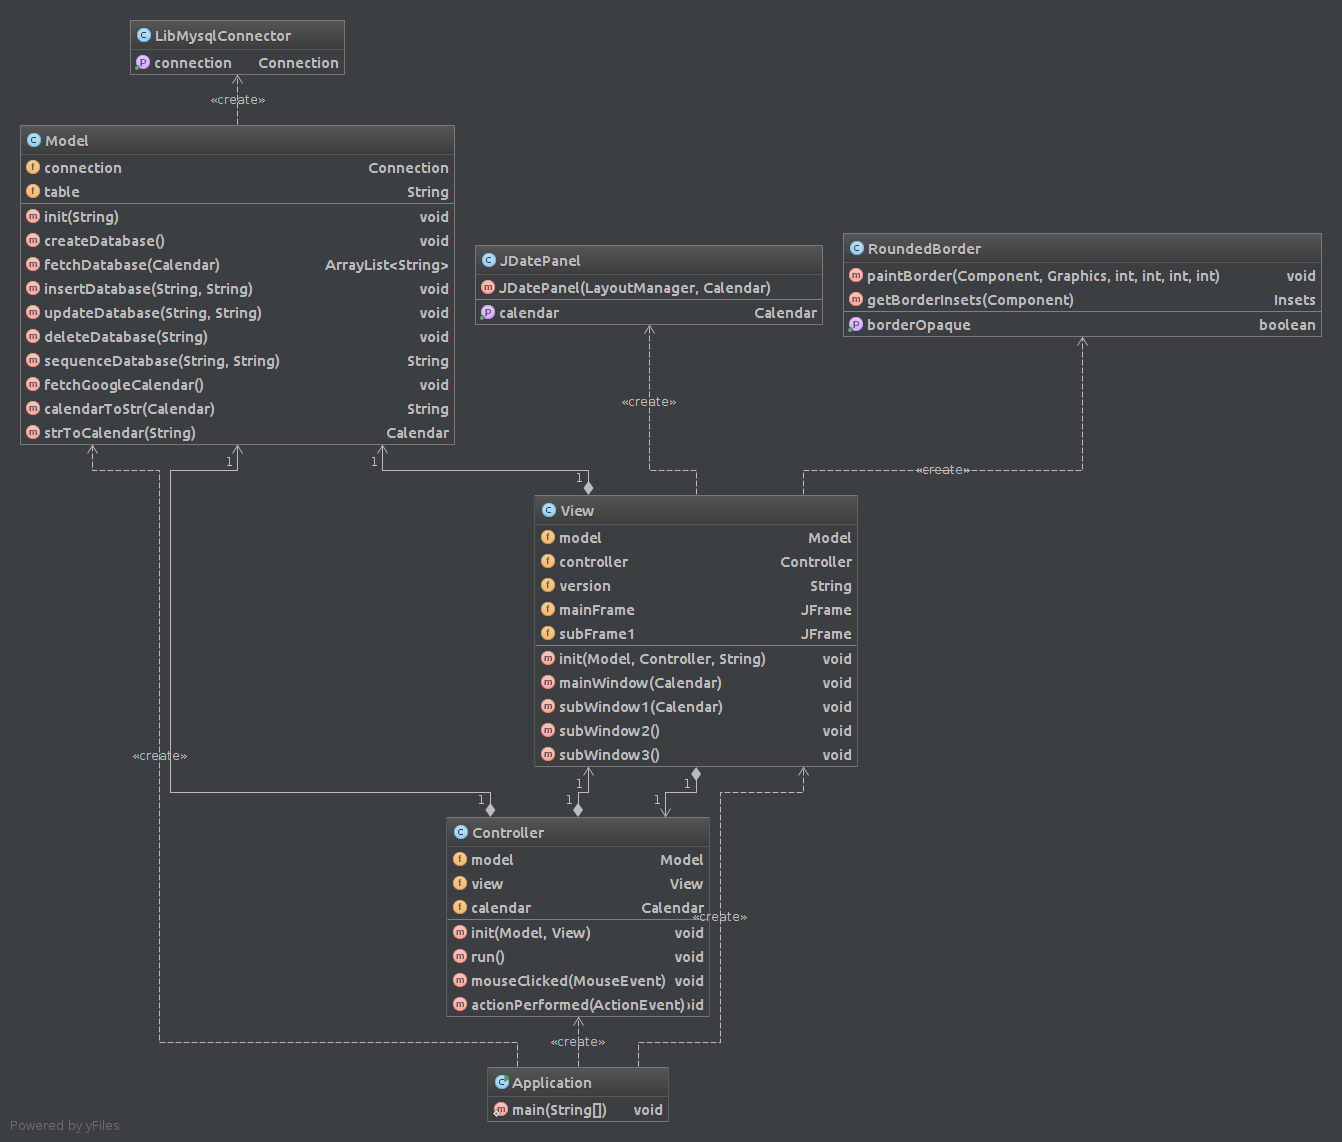
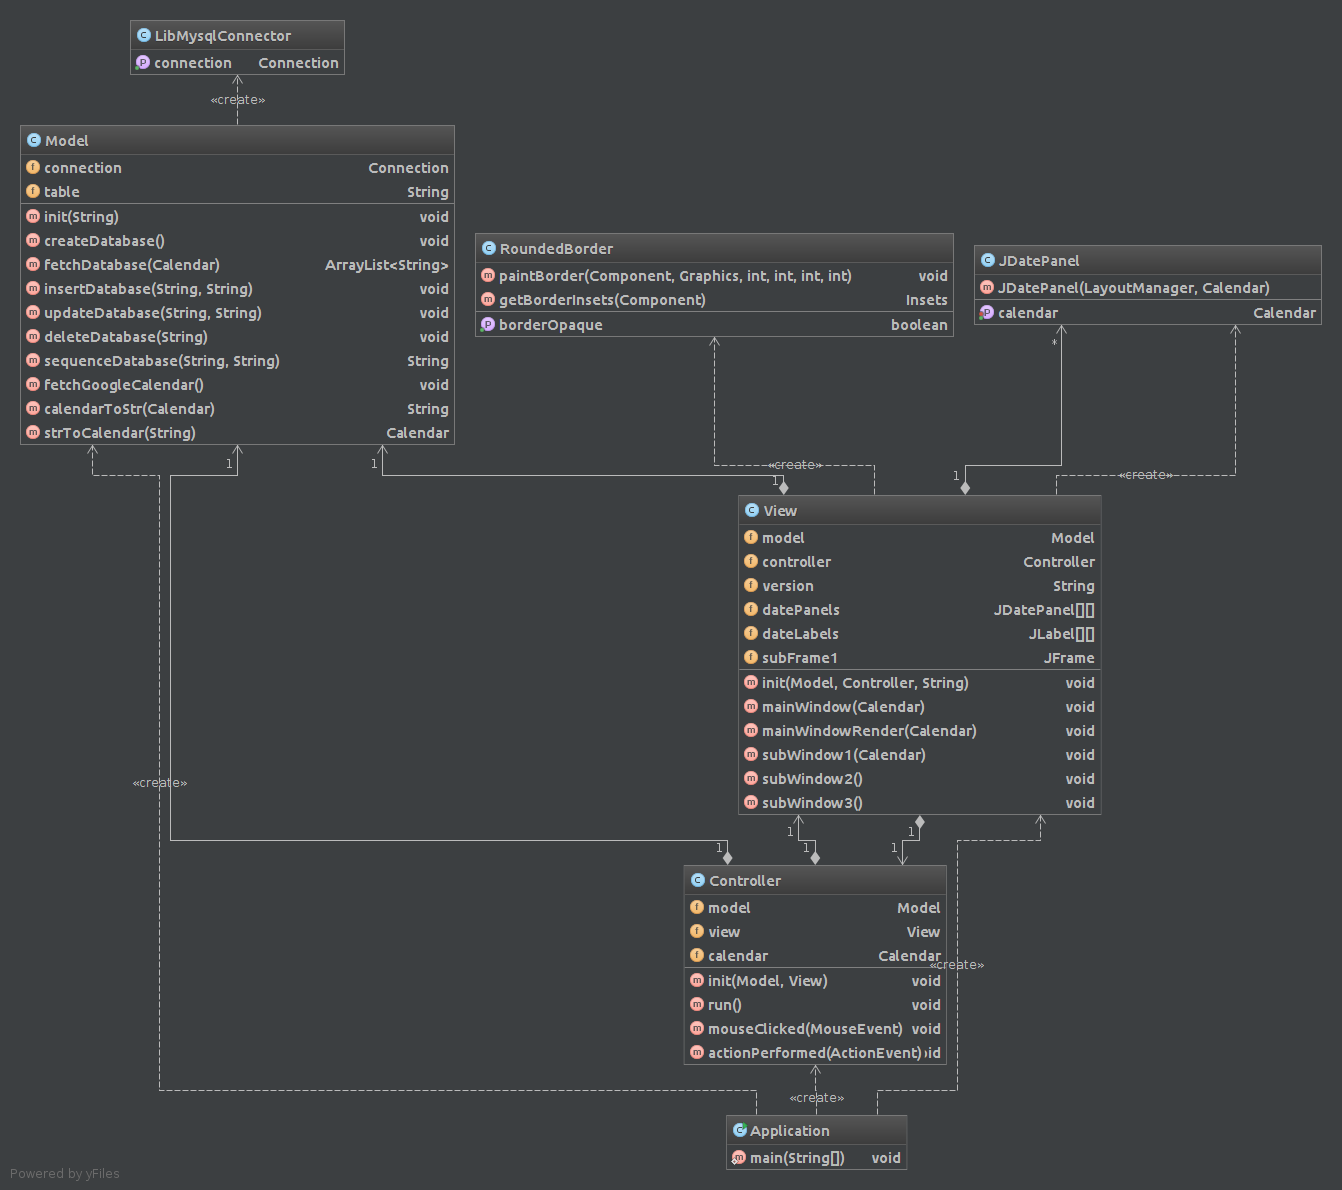
Bug Fixed & UML Diagram Updated.

diff --git a/src/View.java b/src/View.java
@@ -8,8 +8,9 @@ public class View {
     private Model model;
     private Controller controller;
     private String version;
-    private JFrame subFrame1;
+    private JDatePanel[][] datePanels;
     private JLabel[][] dateLabels;
+    private JFrame subFrame1;
 
     public void init(Model model, Controller controller, String version) {
         this.model = model;
@@ -22,7 +23,7 @@ public class View {
         JPanel panel = new JPanel(new BorderLayout(5, 5));
         JPanel leftPanel = new JPanel(new GridLayout(12, 1, 5, 5));
         JPanel rightPanel = new JPanel(new GridLayout(4, 7, 5, 5));
-        JDatePanel[][] datePanels = new JDatePanel[4][7];
+        datePanels = new JDatePanel[4][7];
         dateLabels = new JLabel[4][7];
 
         int todayMonth = calendar.get(Calendar.MONTH);
@@ -114,6 +115,7 @@ public class View {
                 output += "</html>";
 
                 dateLabels[i][j].setText(output);
+                datePanels[i][j].setCalendar((Calendar) calendar.clone());
 
                 calendar.add(Calendar.DATE, 1);
                 todayMonth = calendar.get(Calendar.MONTH);
@@ -214,6 +216,10 @@ class JDatePanel extends JPanel {
 
     public JDatePanel(LayoutManager layoutManager, Calendar calendar) {
         super(layoutManager);
+        this.calendar = calendar;
+    }
+
+    public void setCalendar(Calendar calendar) {
         this.calendar = calendar;
     }
 
